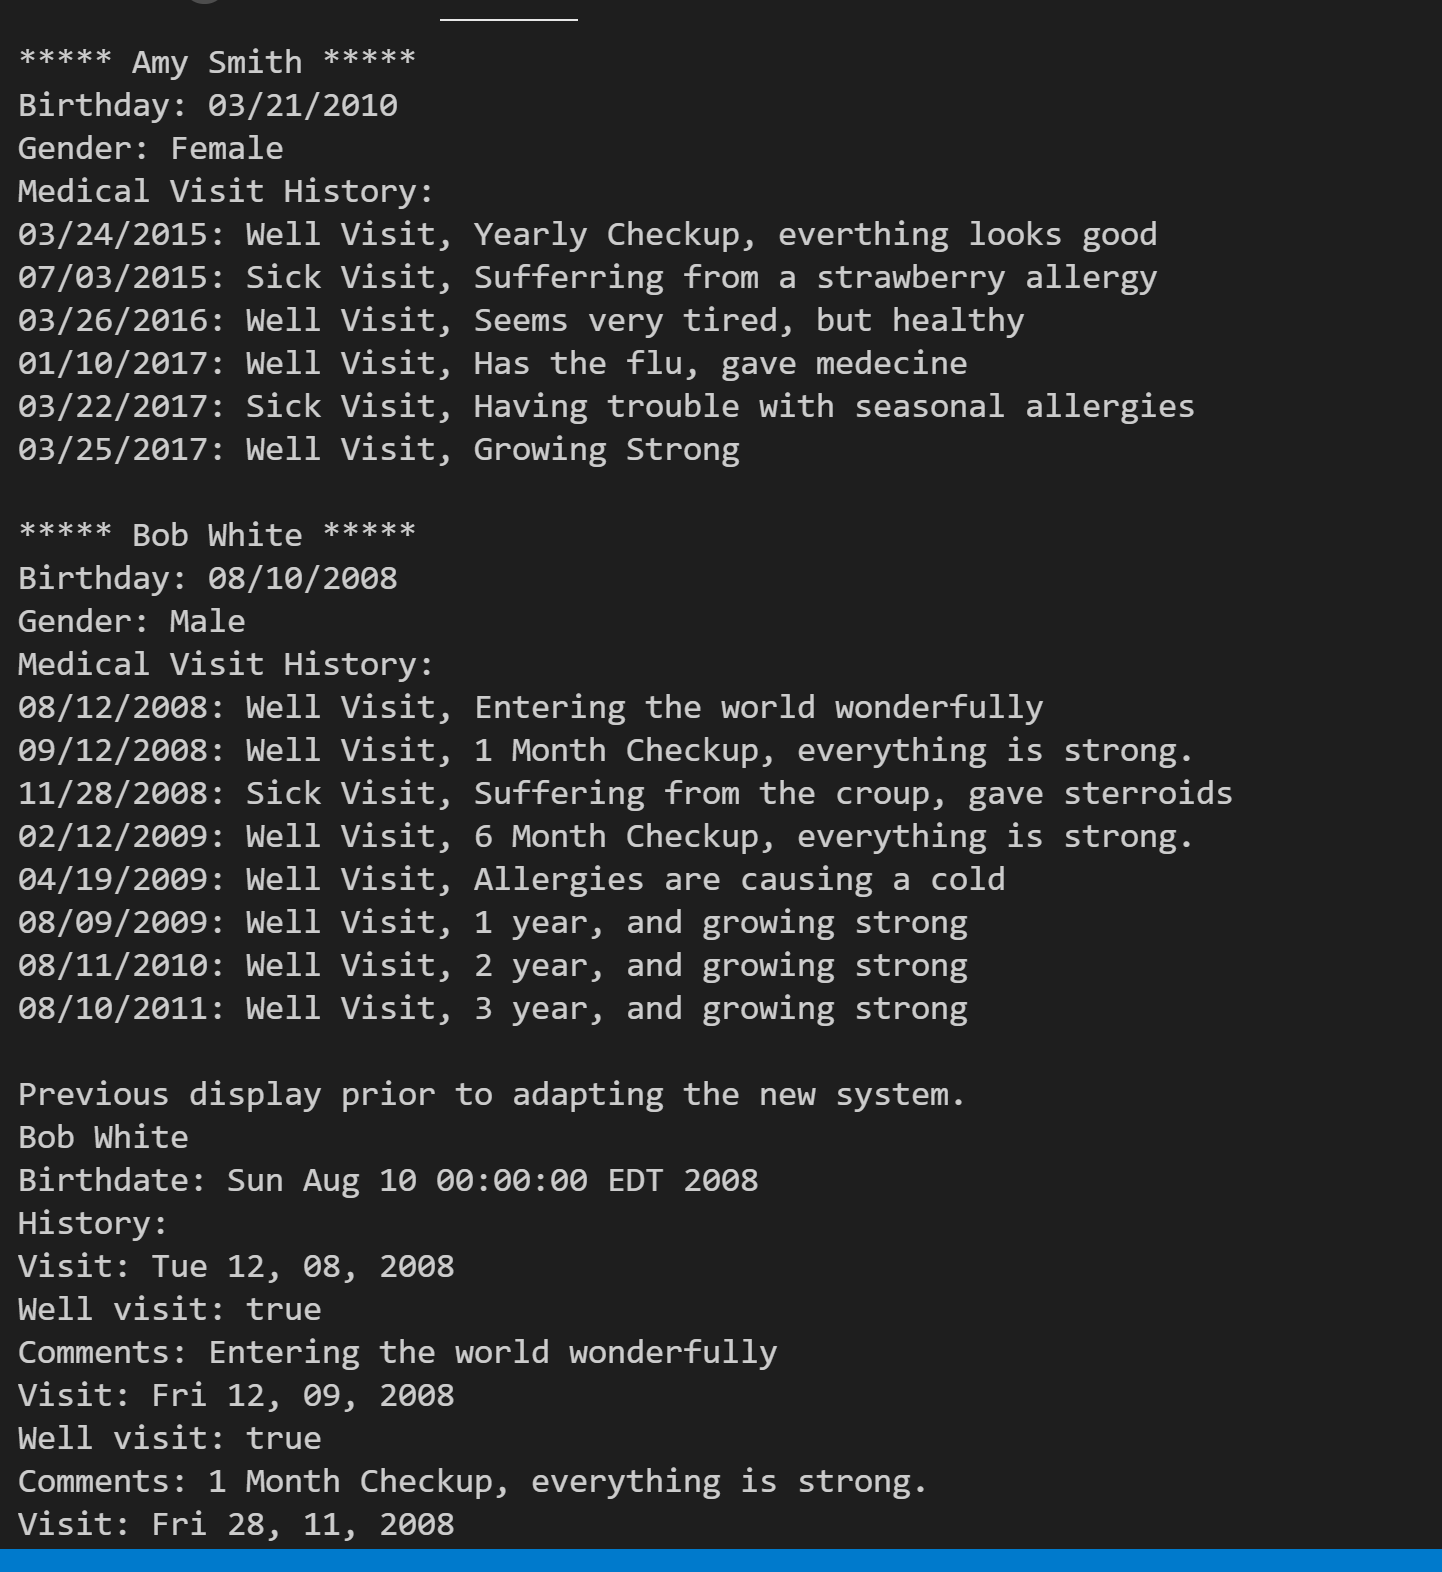
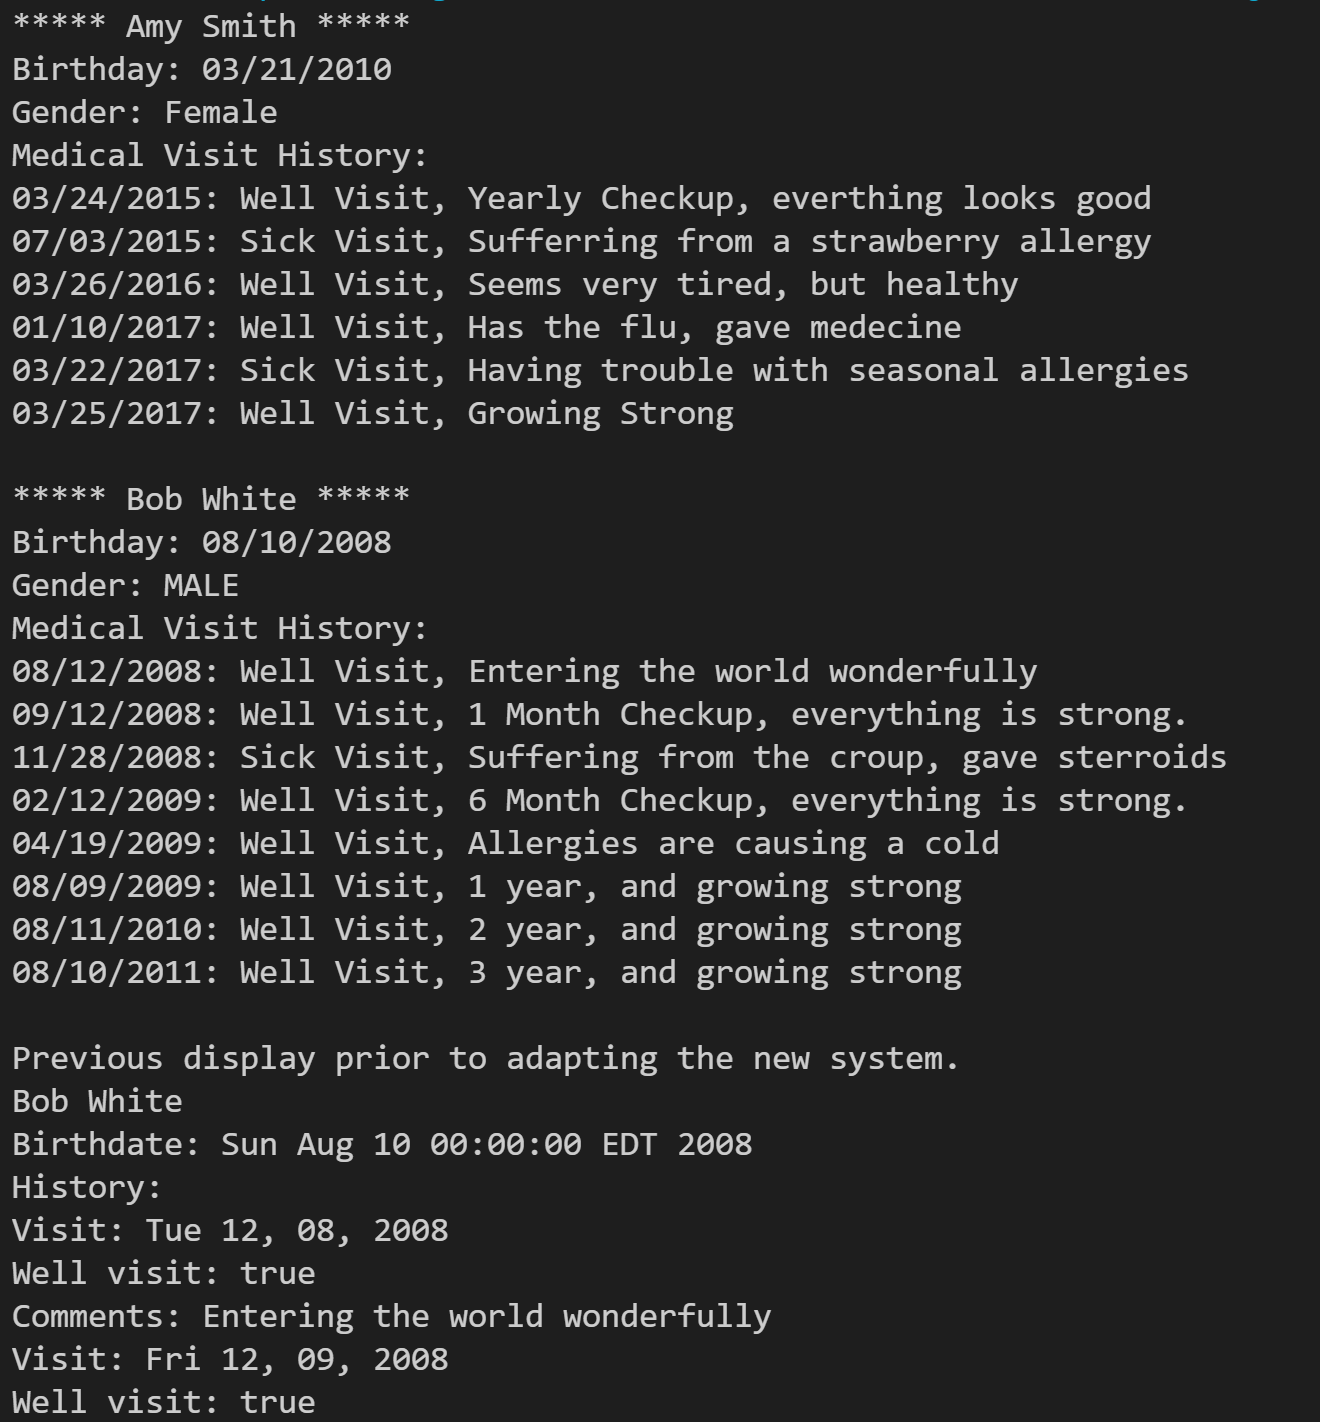
fixed error and image

Changed region(s): [[0.0, 0.0, 1.0, 1.0], [0.5902, 0.7426, 0.7144, 0.7736]]

diff --git a/strategy/strategy8/MedicalRecordAdapter.java b/strategy/strategy8/MedicalRecordAdapter.java
@@ -136,13 +136,7 @@ public class MedicalRecordAdapter implements MedicalRecord {
         SimpleDateFormat simpleDateFormat = new SimpleDateFormat("MM/dd/yyyy");
         String birthday = simpleDateFormat.format(getBirthday());
         toReturn += "Birthday: " + birthday + "\n";
-        String gender = record.getGender();
-        toReturn += "Gender: ";
-
-        if (gender.equalsIgnoreCase("male"))
-            toReturn += "Male" + "\n";
-        else
-            toReturn += "Female" + "\n";
+        toReturn += "Gender: " + this.getGender() + "\n";
 
         toReturn += "Medical Visit History: \n";
 
